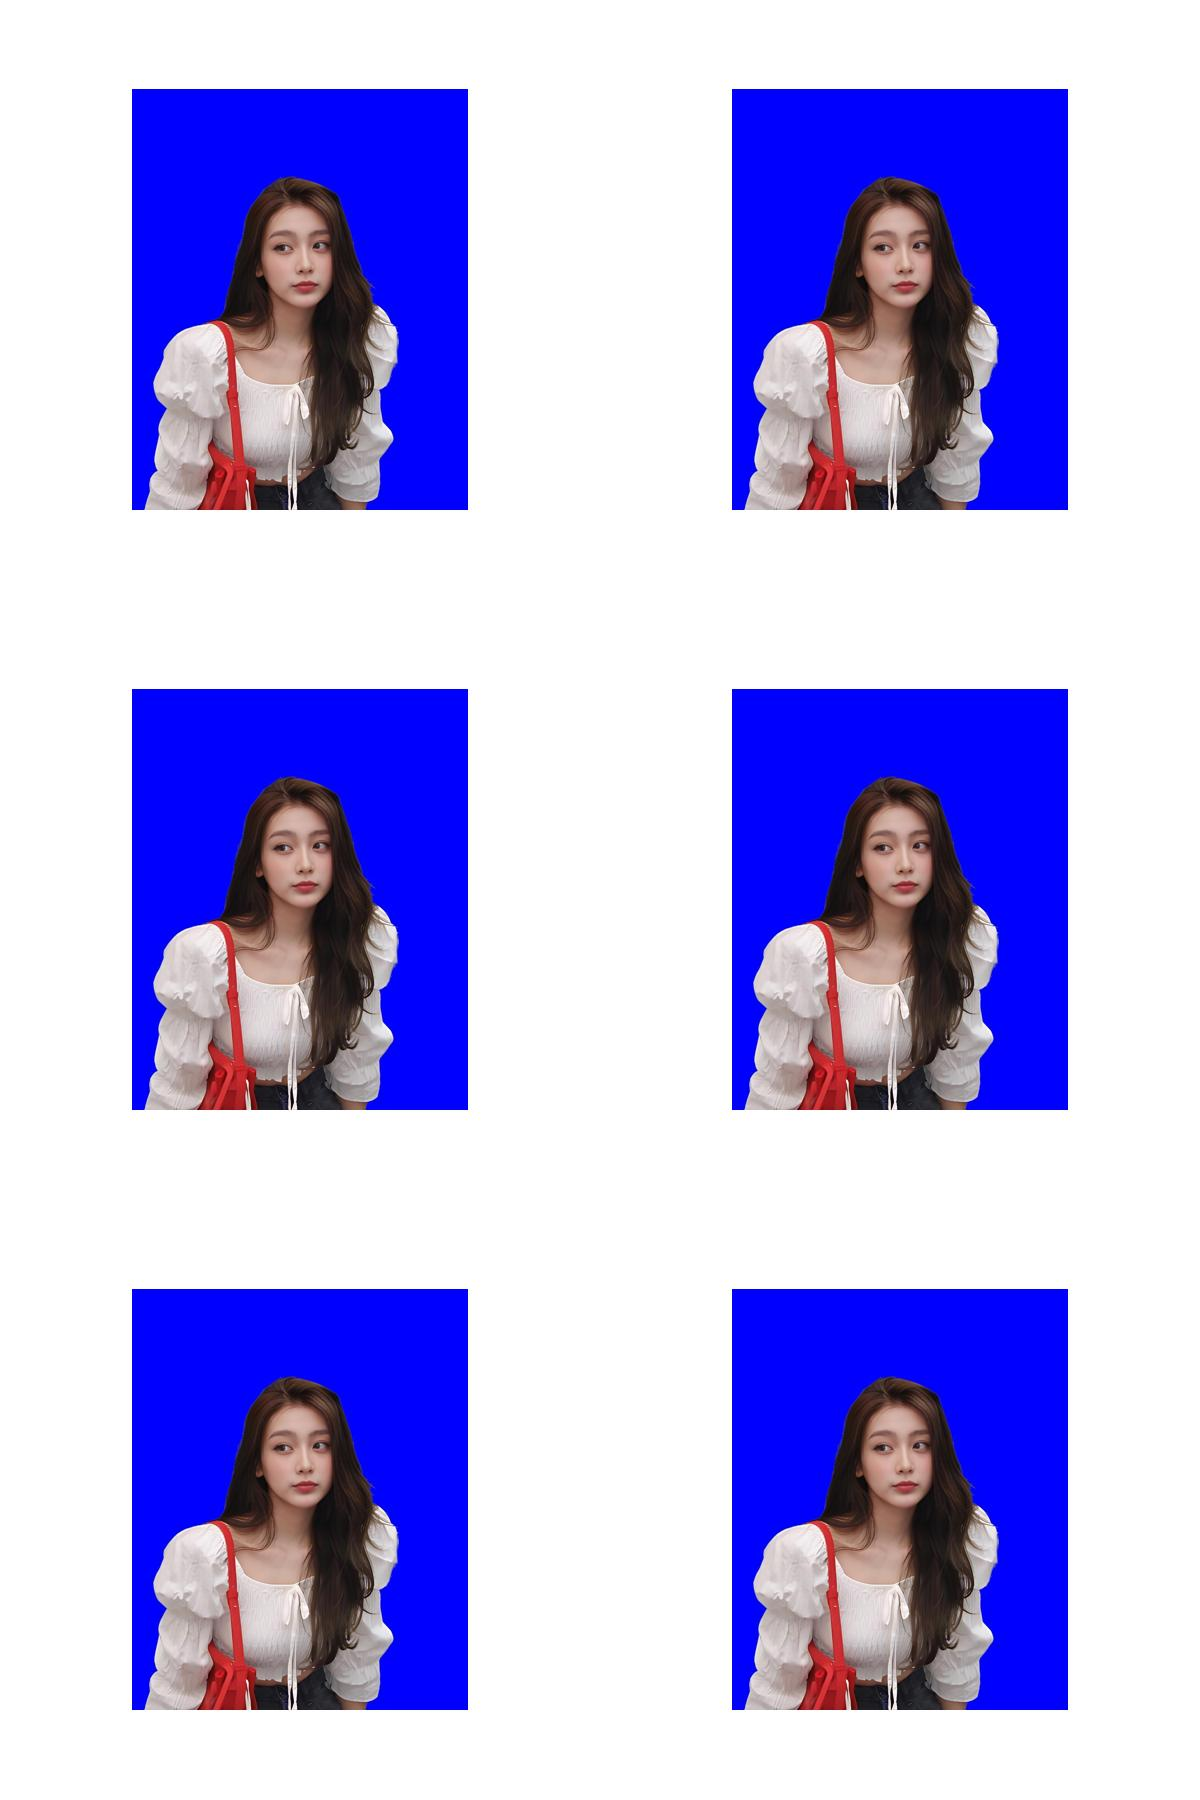
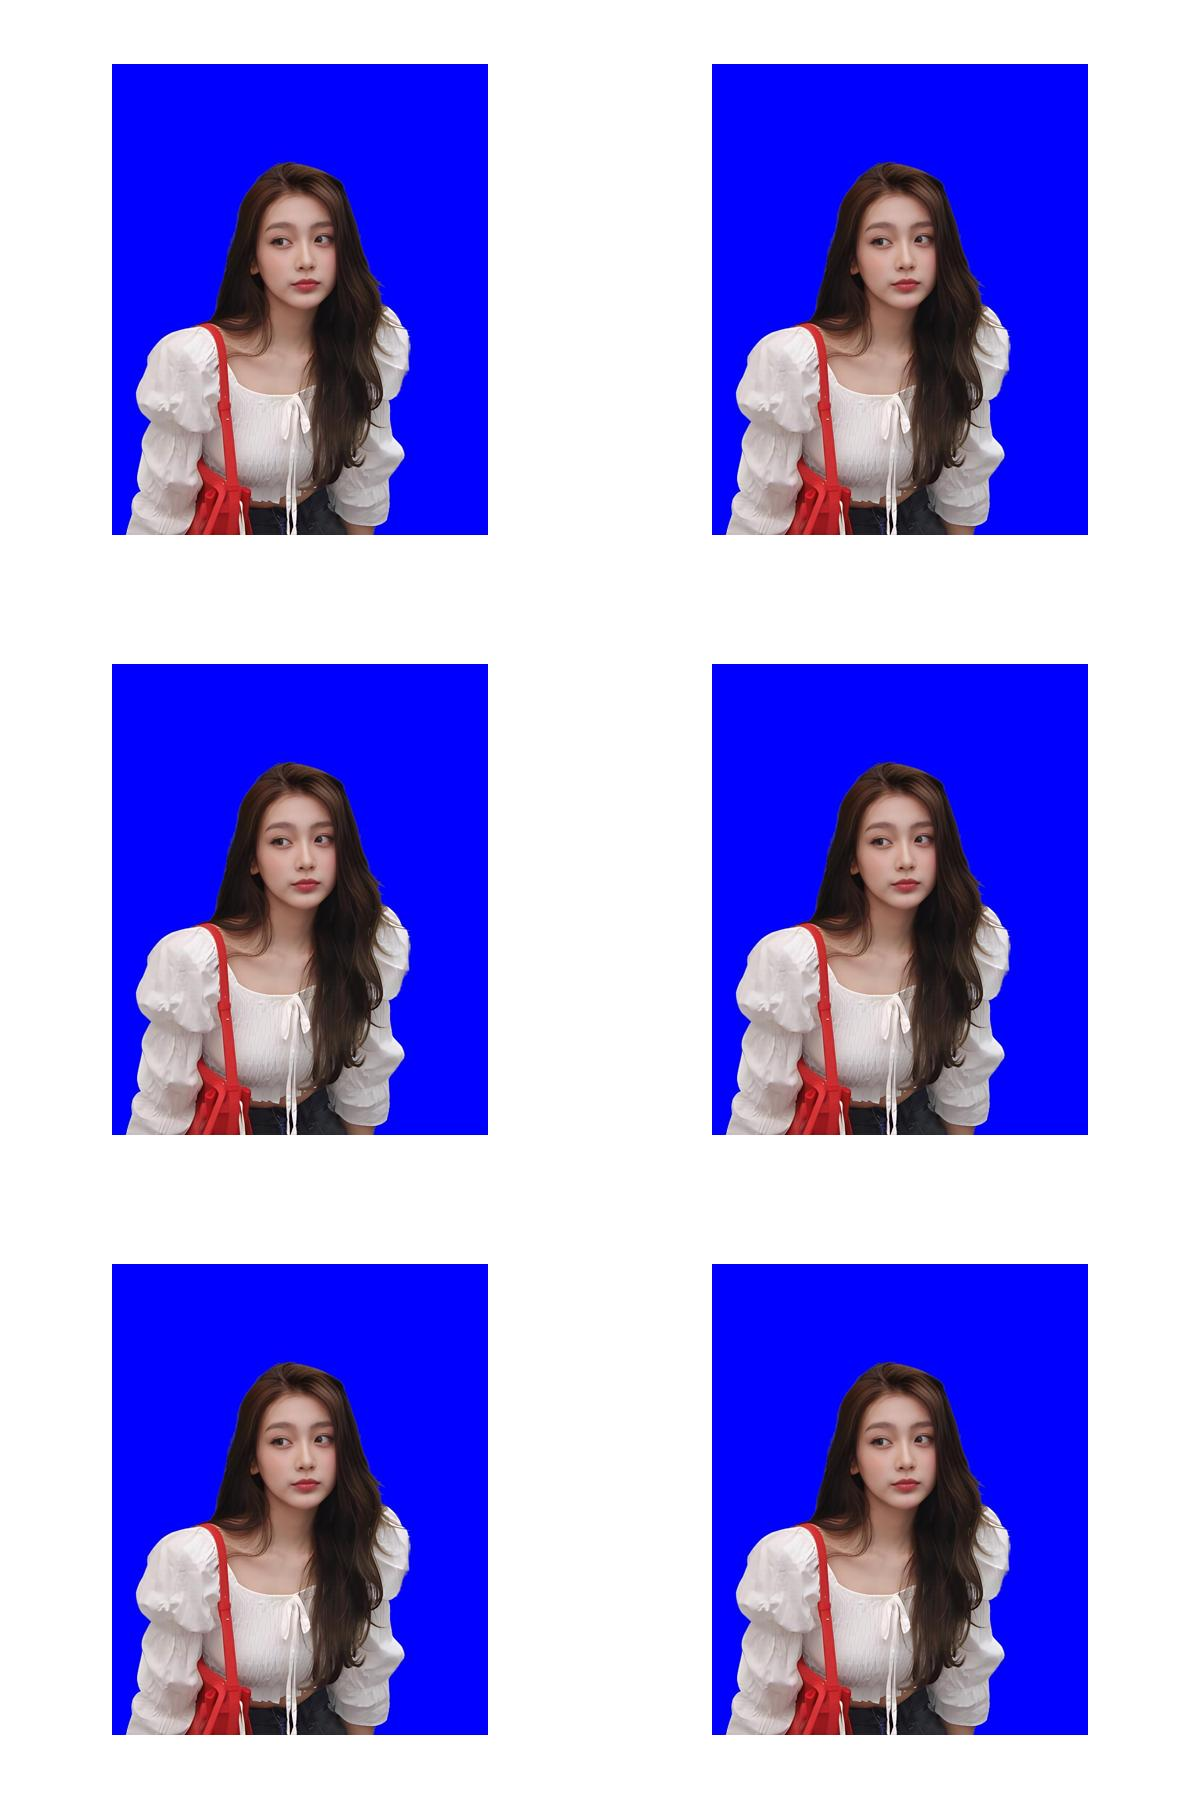
update target_size

diff --git a/app.py b/app.py
@@ -9,7 +9,7 @@ import requests
 from io import BytesIO
 import base64
 
-os.environ['REPLICATE_API_TOKEN'] = 'r8_7lqBo2by3lPFO3W2ytMPGT3EVWaxhAh0976ZN'
+os.environ['REPLICATE_API_TOKEN'] = 'r8_X2gjDZWF6YNkHfYmoAmLOjIy5E2e98w3gnt9W'
 
 app = Flask(__name__)
 CORS(app, resources={r"/*": {"origins": "*"}}, supports_credentials=True)
@@ -136,7 +136,13 @@ def model(inputImage, sizeImage):
     output_collage_path = 'img\output_collage.jpg'
 
     # Specify the target size in pixels for the resized images
-    target_size = (421, 421)  # Adjust as needed
+
+    if sizeImage == 1.0:
+        target_size = (421, 421)  # Adjust as needed
+    else:
+        target_size = (471, 471)
+
+    
 
     # Resize and arrange the images in a 2x3 grid on a 4x6 inch white background
     resize_and_arrange_images(input_picture_paths, output_collage_path, target_size)
